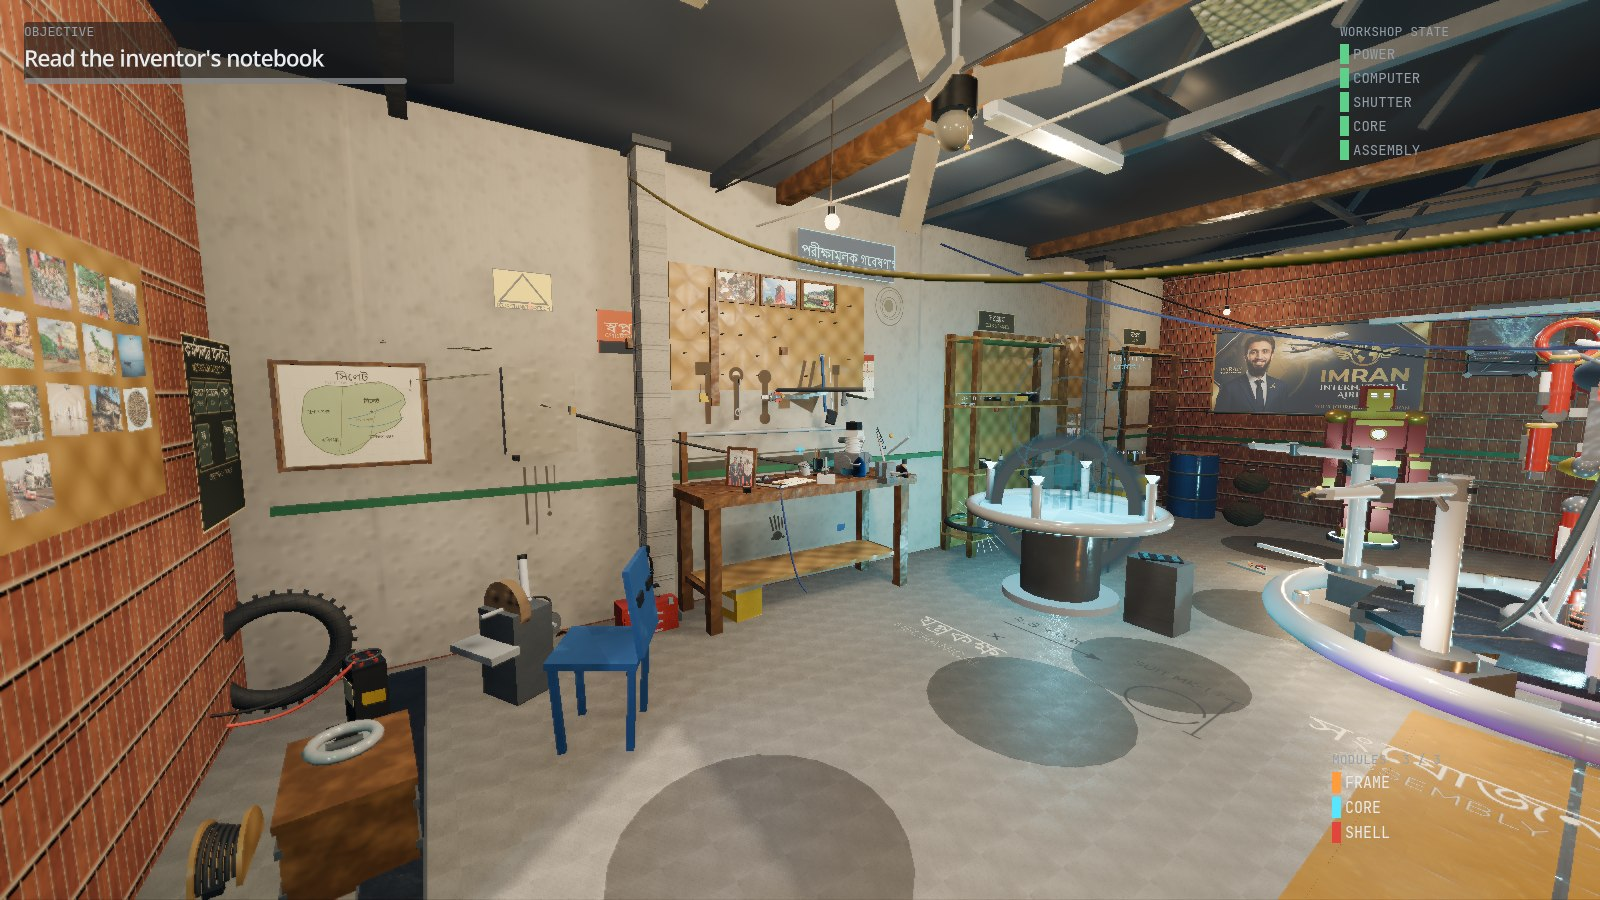
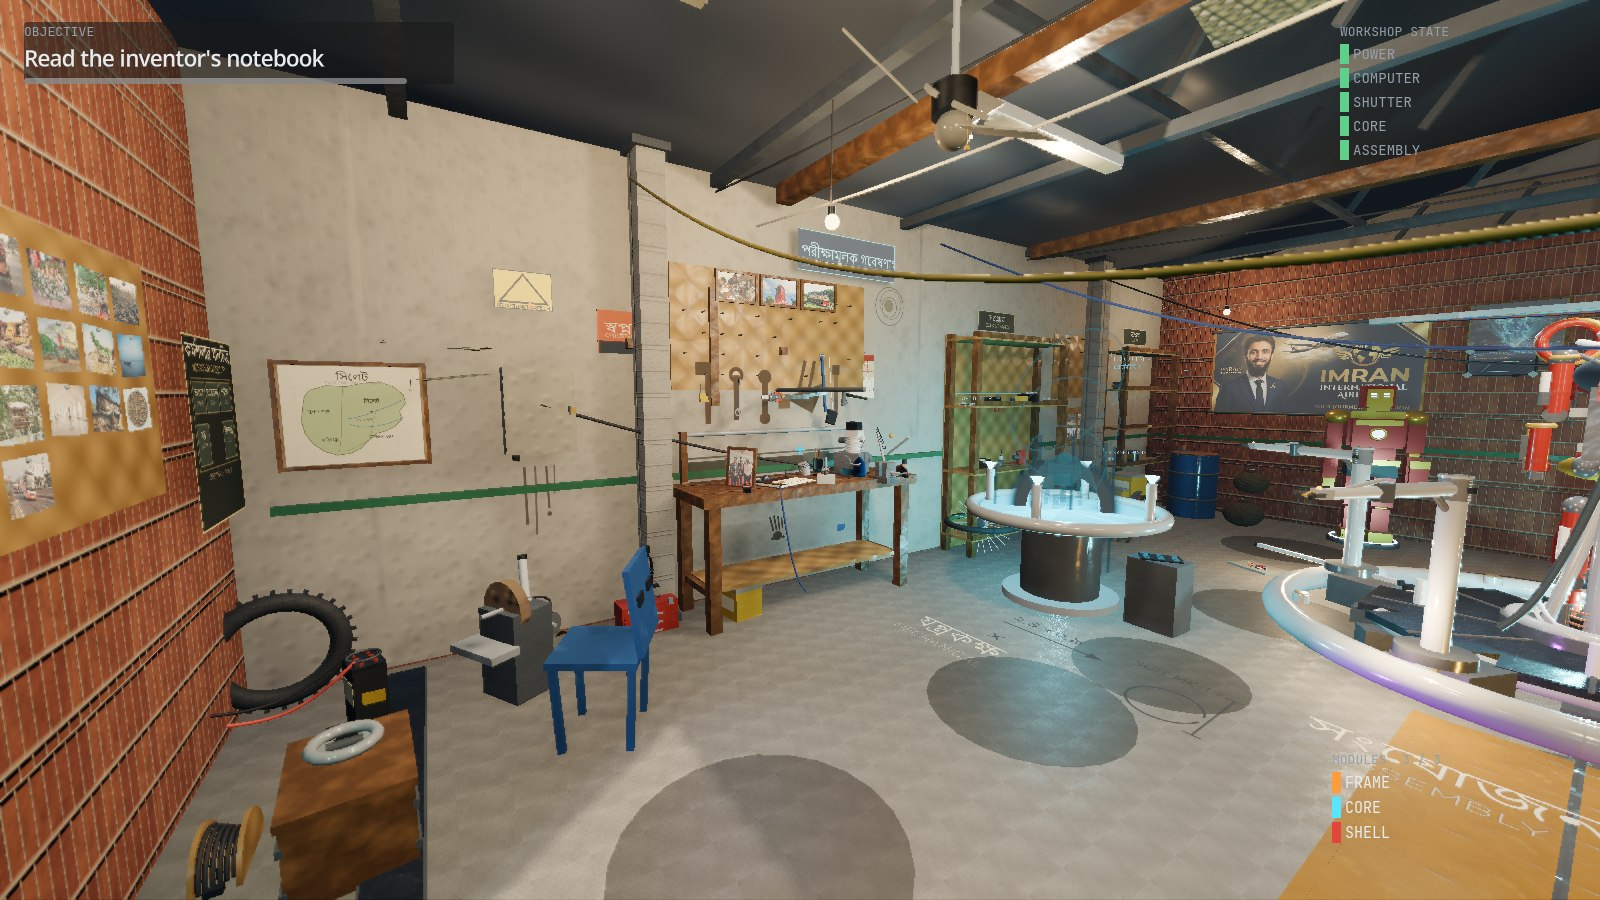
The assembly gets its two stages: test-fit the spares, then bolt the kit down
- The armour assembly is now two-stage and tactile. Carry a spare to the figure and
  E seats it: a snap tween with a hair of overshoot (TRANS_BACK), a per-part seat
  sound - latch for the helmet, thunk for the chest plate, servo for the gauntlet,
  a settle-click for the boot - and the figure's base ring climbs one step. The
  ring acts as the progress meter and is kept out of the pulse set, so the eyes
  and core pulse without disturbing the count.
- One more E with empty hands bolts the whole kit down: a 0.28 s cascade of locks,
  each with its own clack (tink for helmet and gauntlet, clank for chest and boot),
  a quick scale pump on the part that took the torque, another ring step and a light
  pulse. The fourth bolt fires the power-up - the reveal lands on the last lock,
  not the last seat.
- Discoverability, kept simple: a one-shot teaching hint fires the first time the
  figure is targeted; the wrong-part buzz stays; E when everything is bolted strips
  the kit back home as before. The console (TAB -> Assembly -> ARMOUR) gains a live
  checklist - at its place / seated / bolted - read from the module, with the totals
  and the MK-I COMPLETE line.
- The fitting takes the held node over through the carry system's new detach_held():
  the module owns the animation from the hand-off, so the snap is the module's own
  tween rather than a generic settle.
- Verification: armor probe 18/18 - four seats at 0.00 cm on their sockets, the
[…]

Changed region(s): [[0.5312, 0.0, 0.6875, 0.2489], [0.5938, 0.4667, 0.7188, 0.6222]]

diff --git a/docs/PROJECT_OVERVIEW.md b/docs/PROJECT_OVERVIEW.md
@@ -159,7 +159,7 @@ recorded in `docs/ASSET_LICENSES.md`.
 | Global gloss | Surface gloss is per material family, not one global number: masonry and earth stay matte, the sealed concrete floor is lightly polished, varnished wood and paint are glossy, bare metal most of all - and the SSAO runs wider and heavier so contact shadows hold the room together |
 | Wayfinding | Painted stencils on the floor name all four bays, placards cap the two storage shelves, and an entrance directory board carries a mini floor plan - the shop reads as five organised areas, not one crowded room |
 | Weather | The yard runs a slow rain cycle - rain, after-rain, dry, drizzle. The shared concrete slab wets with the rain (roughness and albedo move as one uniform, dry 0.62 to 0.41) and dries as the machine parks dry; the capture harness pins it dry so verification shots stay deterministic |
-| Presentation | The armour assembly is performed by hand - four spare shells test-fitted onto the figure with a power-up on the fourth - and the room carries a viewpoint tour (twenty fixed views), a thesis panel with the measured claims (T), and a demo reset (R) that returns the garage to the morning |
+| Presentation | The armour assembly is performed by hand in two stages - test-fit each spare shell onto the figure, then one press bolts the kit down with a clack cascade while the base ring counts the bolts and the fourth lights the figure - and the room carries a viewpoint tour (twenty fixed views), a thesis panel with the measured claims (T), and a demo reset (R) that returns the garage to the morning |
 | Surface synthesis | The per-texel pass is banded across the worker pool and bit-identical to the serial order (MD5-checked), which brought the quiet build from ~11 s to 9.2 s |
 | Auto-opening gate | The shutter's presence sensor rolls the curtain up as anyone approaches the courtyard — it starts most of the way down and the room wakes up as it lifts. It can no longer be lowered |
 | Always-on bulbs | Five bare bulbs — walk lane, both benches, the testing corner, the store — are wired ahead of the switchboard to the incoming line, outside every switchable circuit: the room is never dark, even at the start, and each bulb carries its own light when you pick it up |

diff --git a/README.md b/README.md
@@ -123,12 +123,14 @@ the flag file.
 | `1`–`9`, `0`, `[` `]` | jump / step through the twenty fixed viewpoints |
 | `\` | return to where you stood |
 
-**For a presentation.** The armour figure's four spare shells can be **test-fitted by
-hand**: carry each one to the figure and press `E` — the part settles into its socket
-with a latch, the figure's lights pulse, and when the fourth seats the figure powers up.
-`R` puts the whole garage back to the morning so the sequence can run again, `T` opens
-the measured claims, and `1`–`0` / `[` `]` jump the camera through the twenty fixed
-viewpoints — press `\` to come back to your spot.
+**For a presentation.** The armour figure's four spare shells are assembled in two
+stages, by hand: **test-fit** — carry each part to the figure and press `E`, it snaps
+into its socket with a latch while the base ring climbs a step — then **bolt the kit
+down** — one more `E` walks all four locks with a cascade of clacks, the ring climbs
+again, and the fourth bolt powers the figure up. `R` puts the whole garage back to the
+morning so the sequence can run again, `T` opens the measured claims (the checklist
+lives in the console, `Tab` → Assembly → Armour), and `1`–`0` / `[` `]` jump the camera
+through the twenty fixed viewpoints — press `\` to come back to your spot.
 
 Just about anything loose can be picked up: tools, tins, tea glasses, stools, tyres,
 drums, crates, chairs, shelves, workbenches, the bicycle, even the holographic table —
